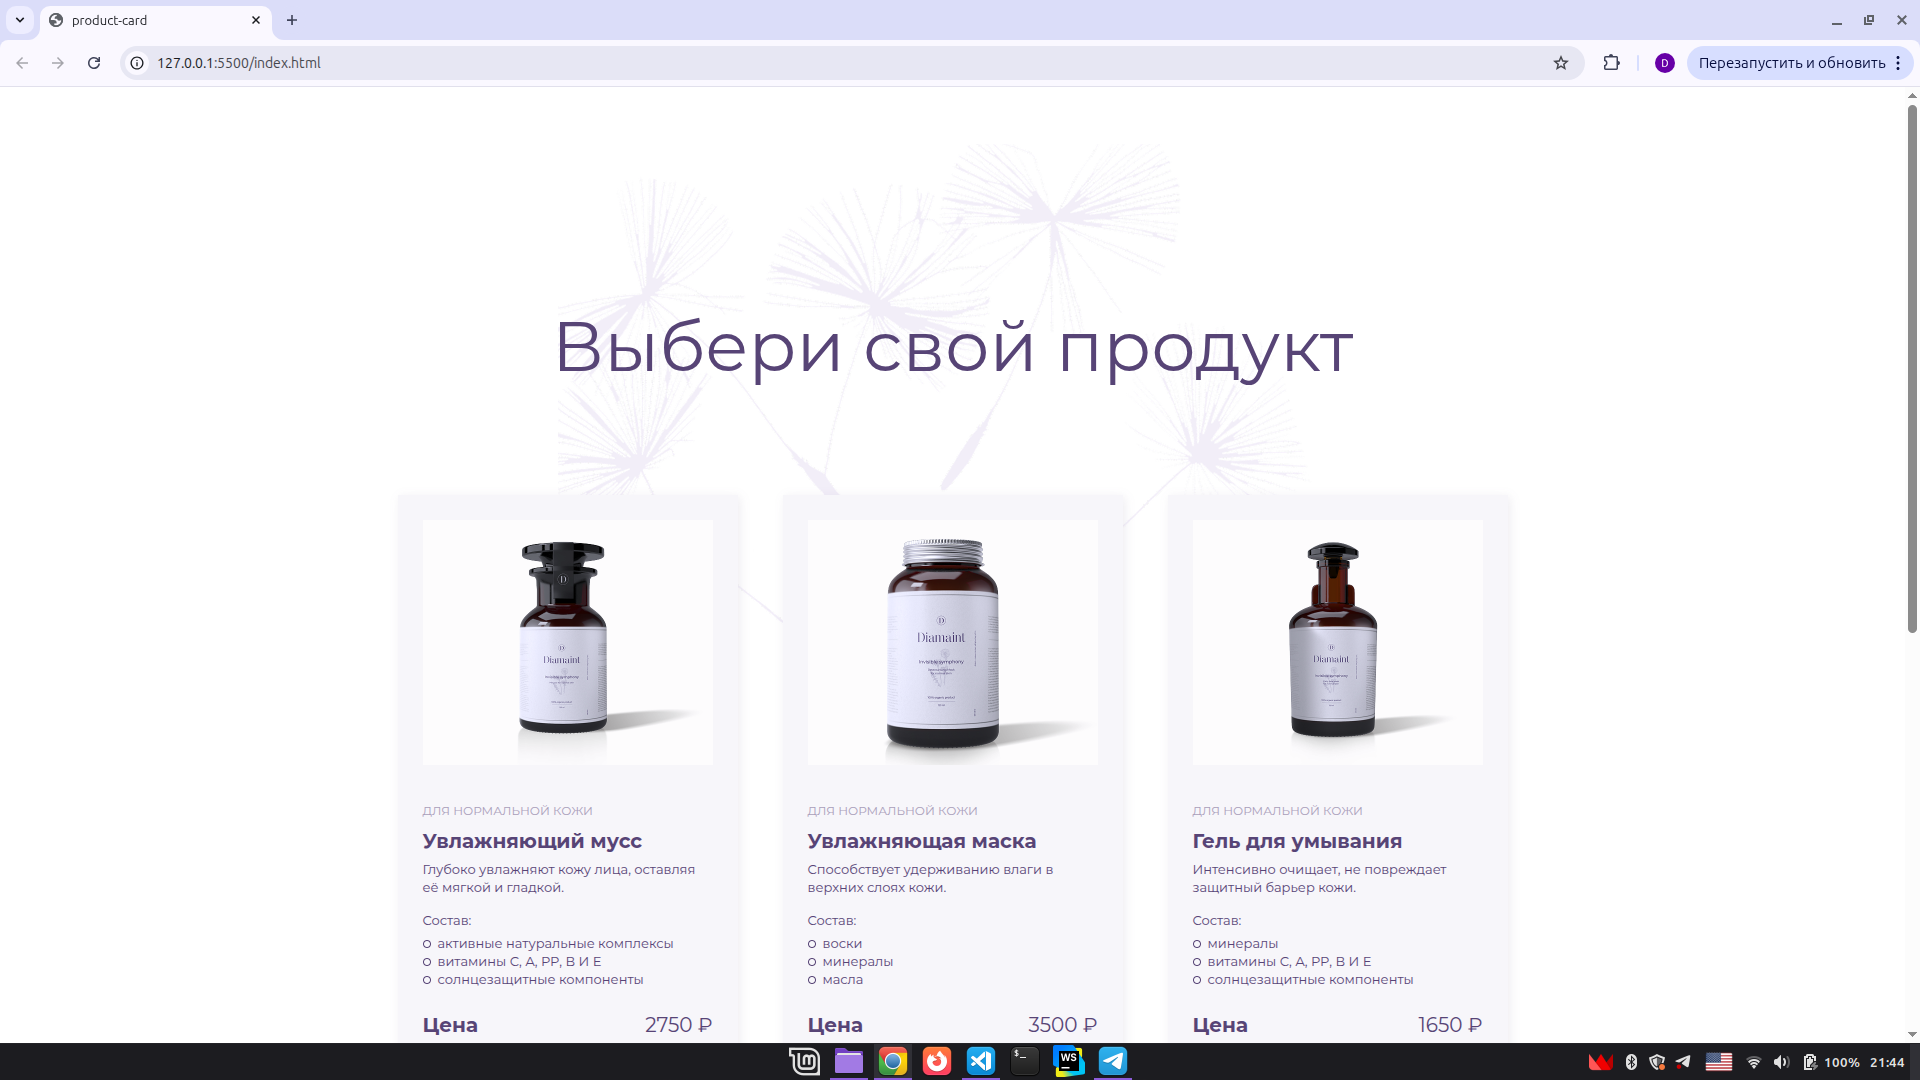
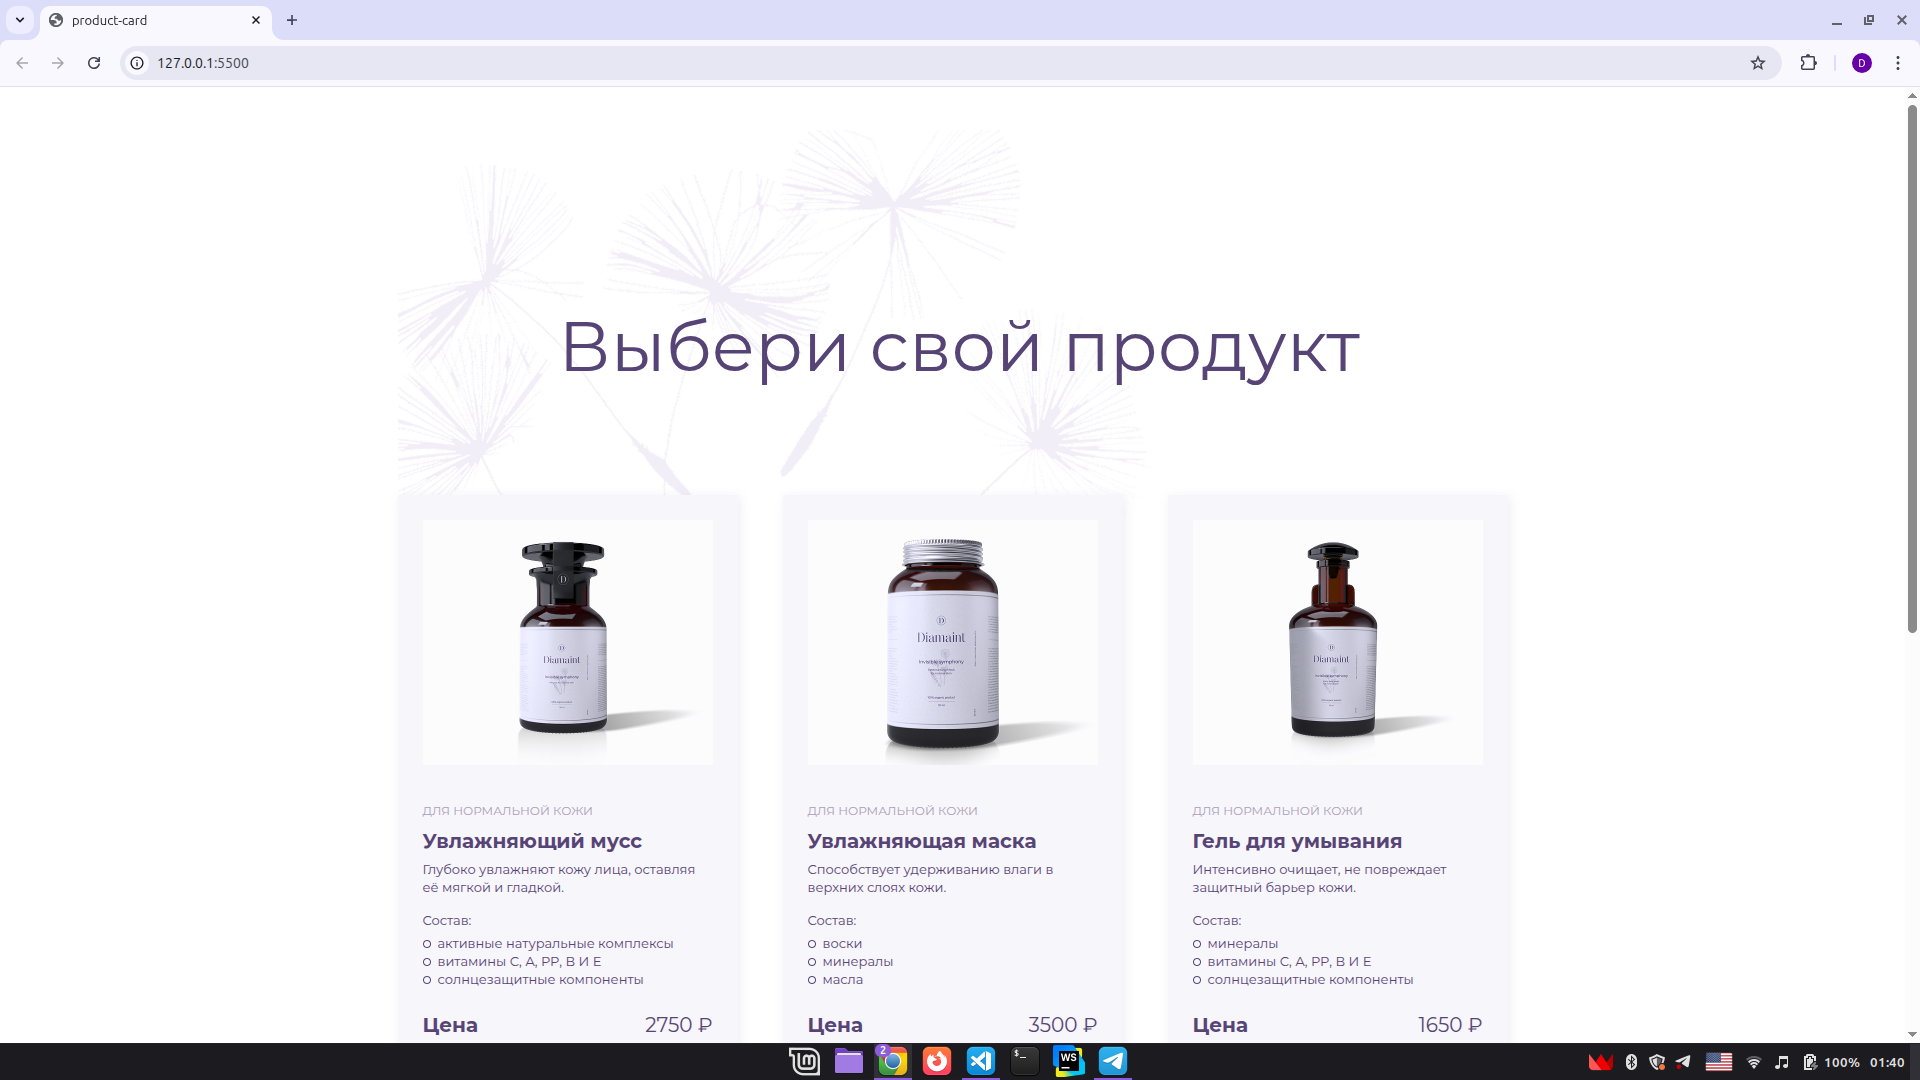
fix error

diff --git a/styles.css b/styles.css
@@ -29,19 +29,23 @@ body {
 }
 
 .header-title {
+  display: block;
   font-size: 70px;
+  white-space: nowrap;
   line-height: 78px;
   font-weight: 400;
   margin-bottom: 110px;
-  position: absolute;
+  position: relative;
+  z-index: 1;
+  right: 35%;
 }
 
 .img-flowers {
   display: block;
   position: relative;
   z-index: -1;
-  top: 300px;
-  /* right: 14.5%; */
+  top: 70%;
+  left: 241px;
 }
 
 .product-container {
@@ -49,8 +53,6 @@ body {
   justify-content: center;
   flex-wrap: wrap;
   gap: 45px;
-  position: relative;
-  z-index: 2;
 }
 
 .card-container {
